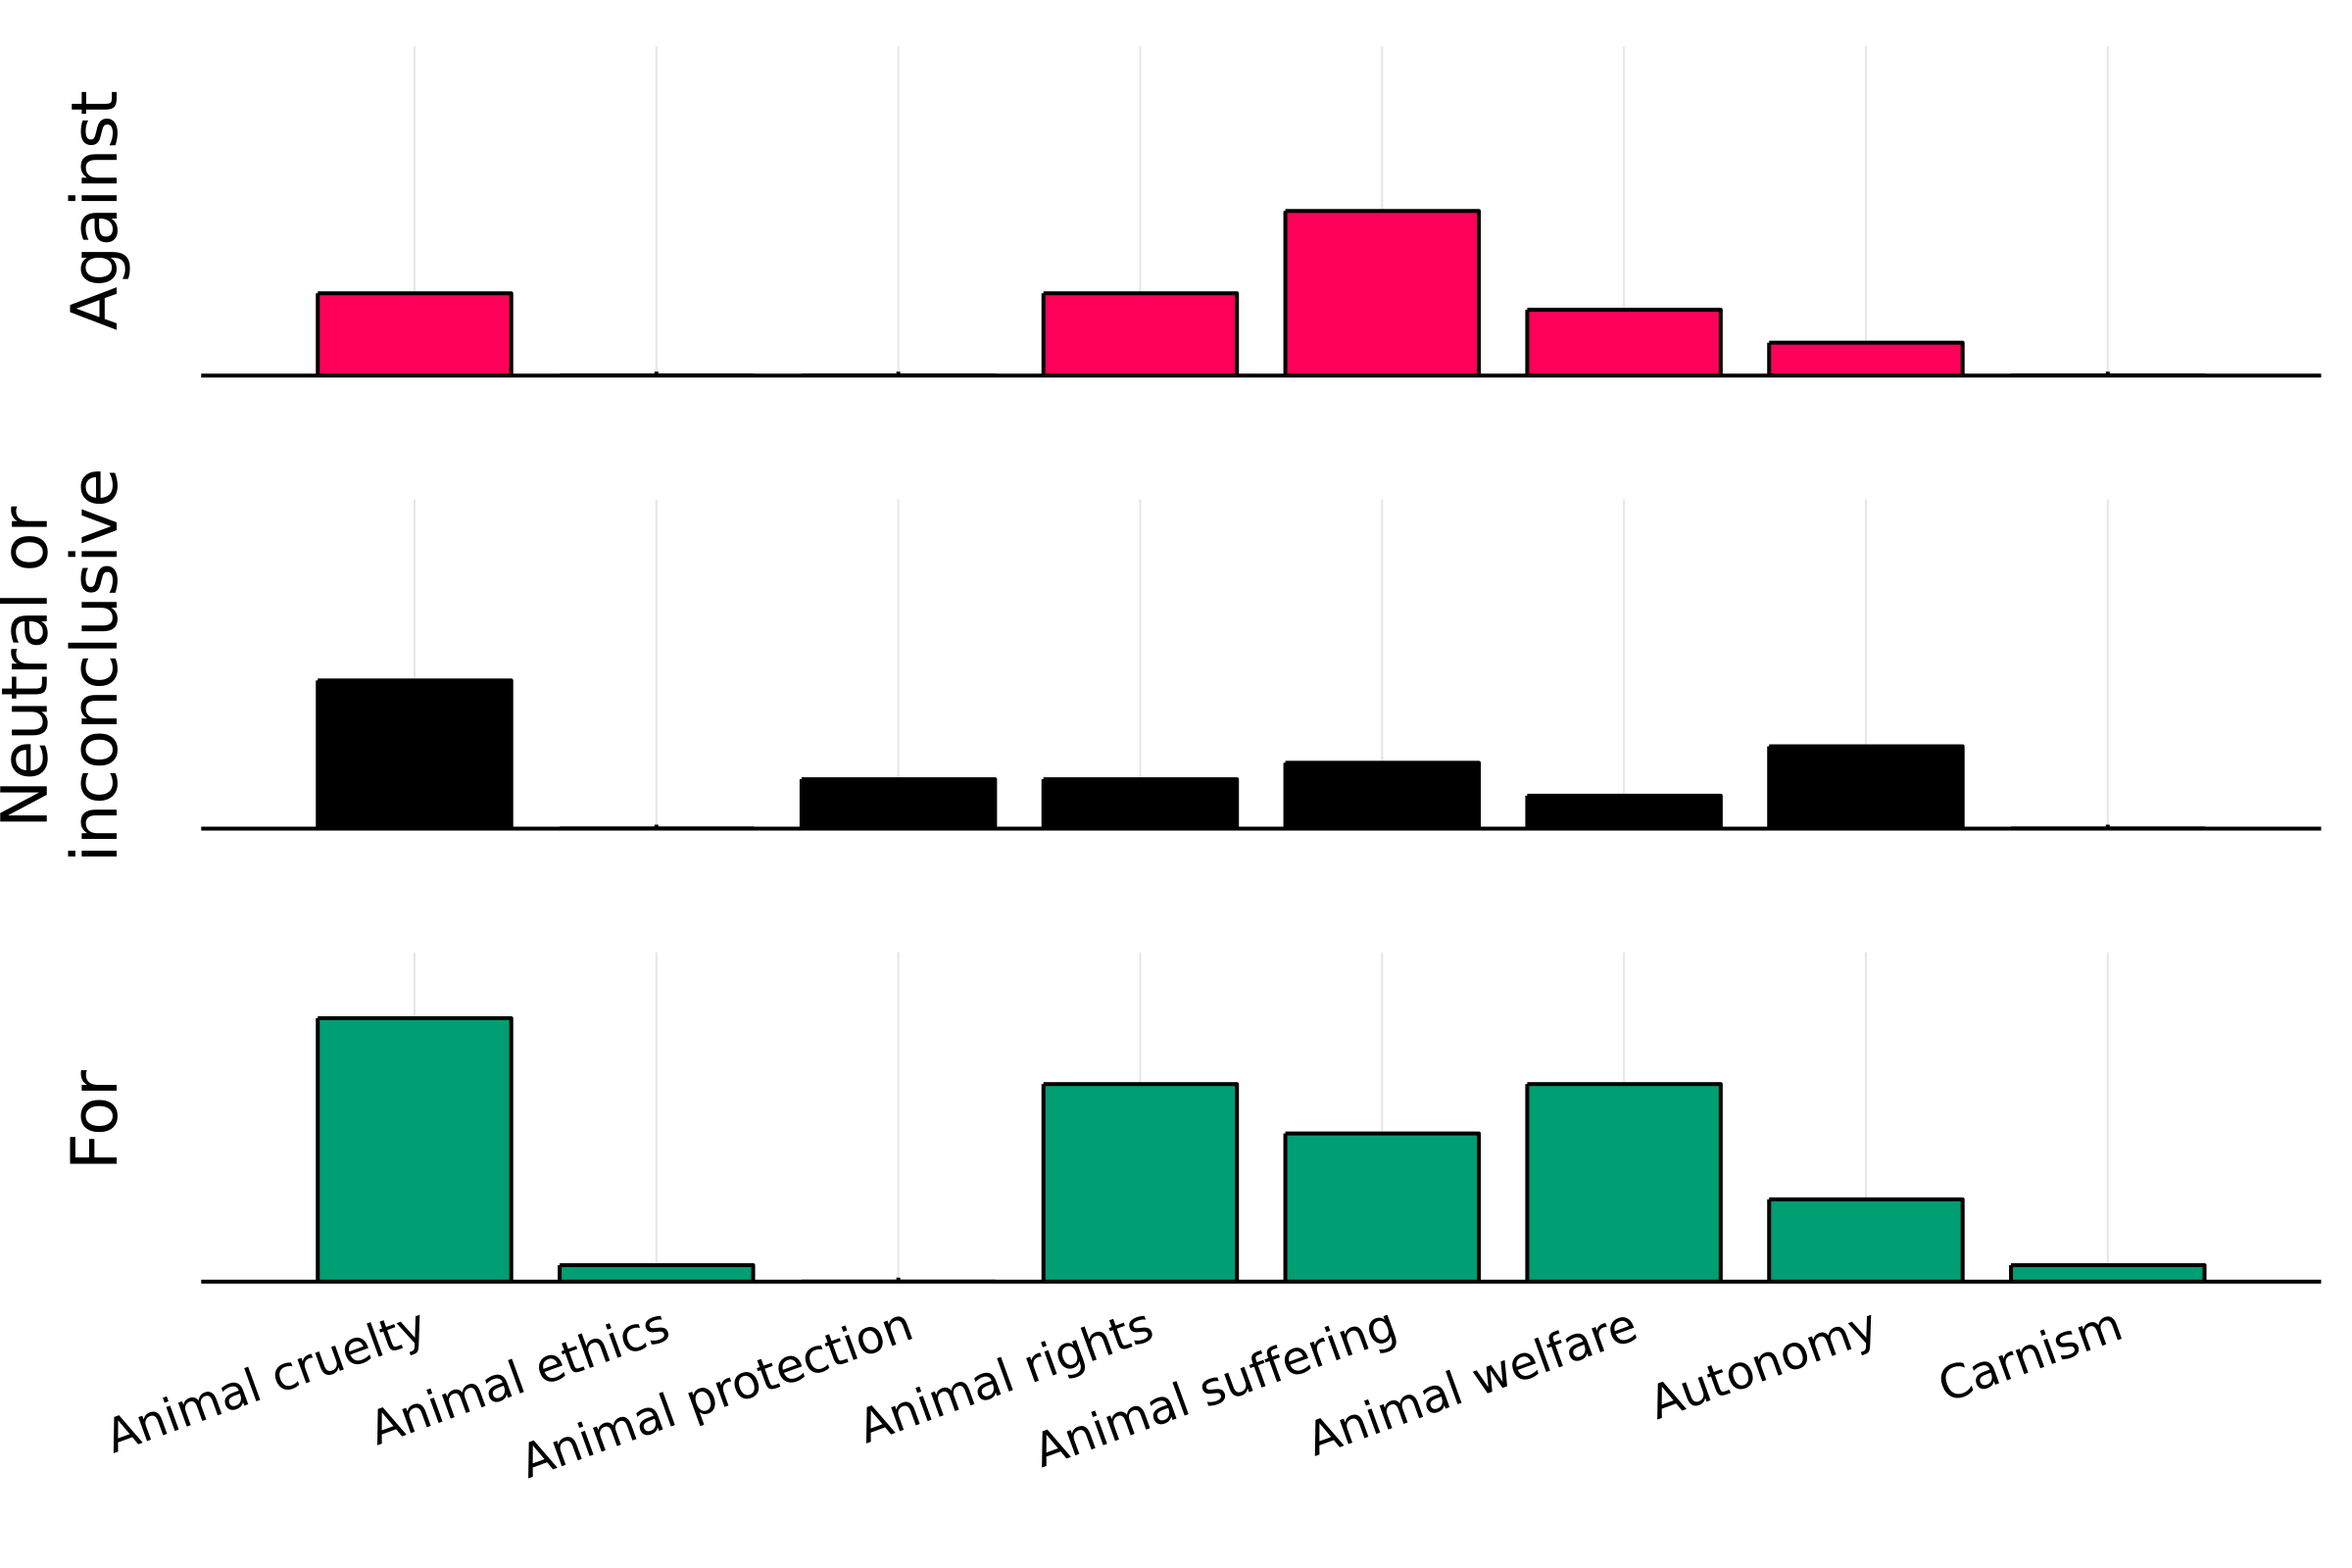
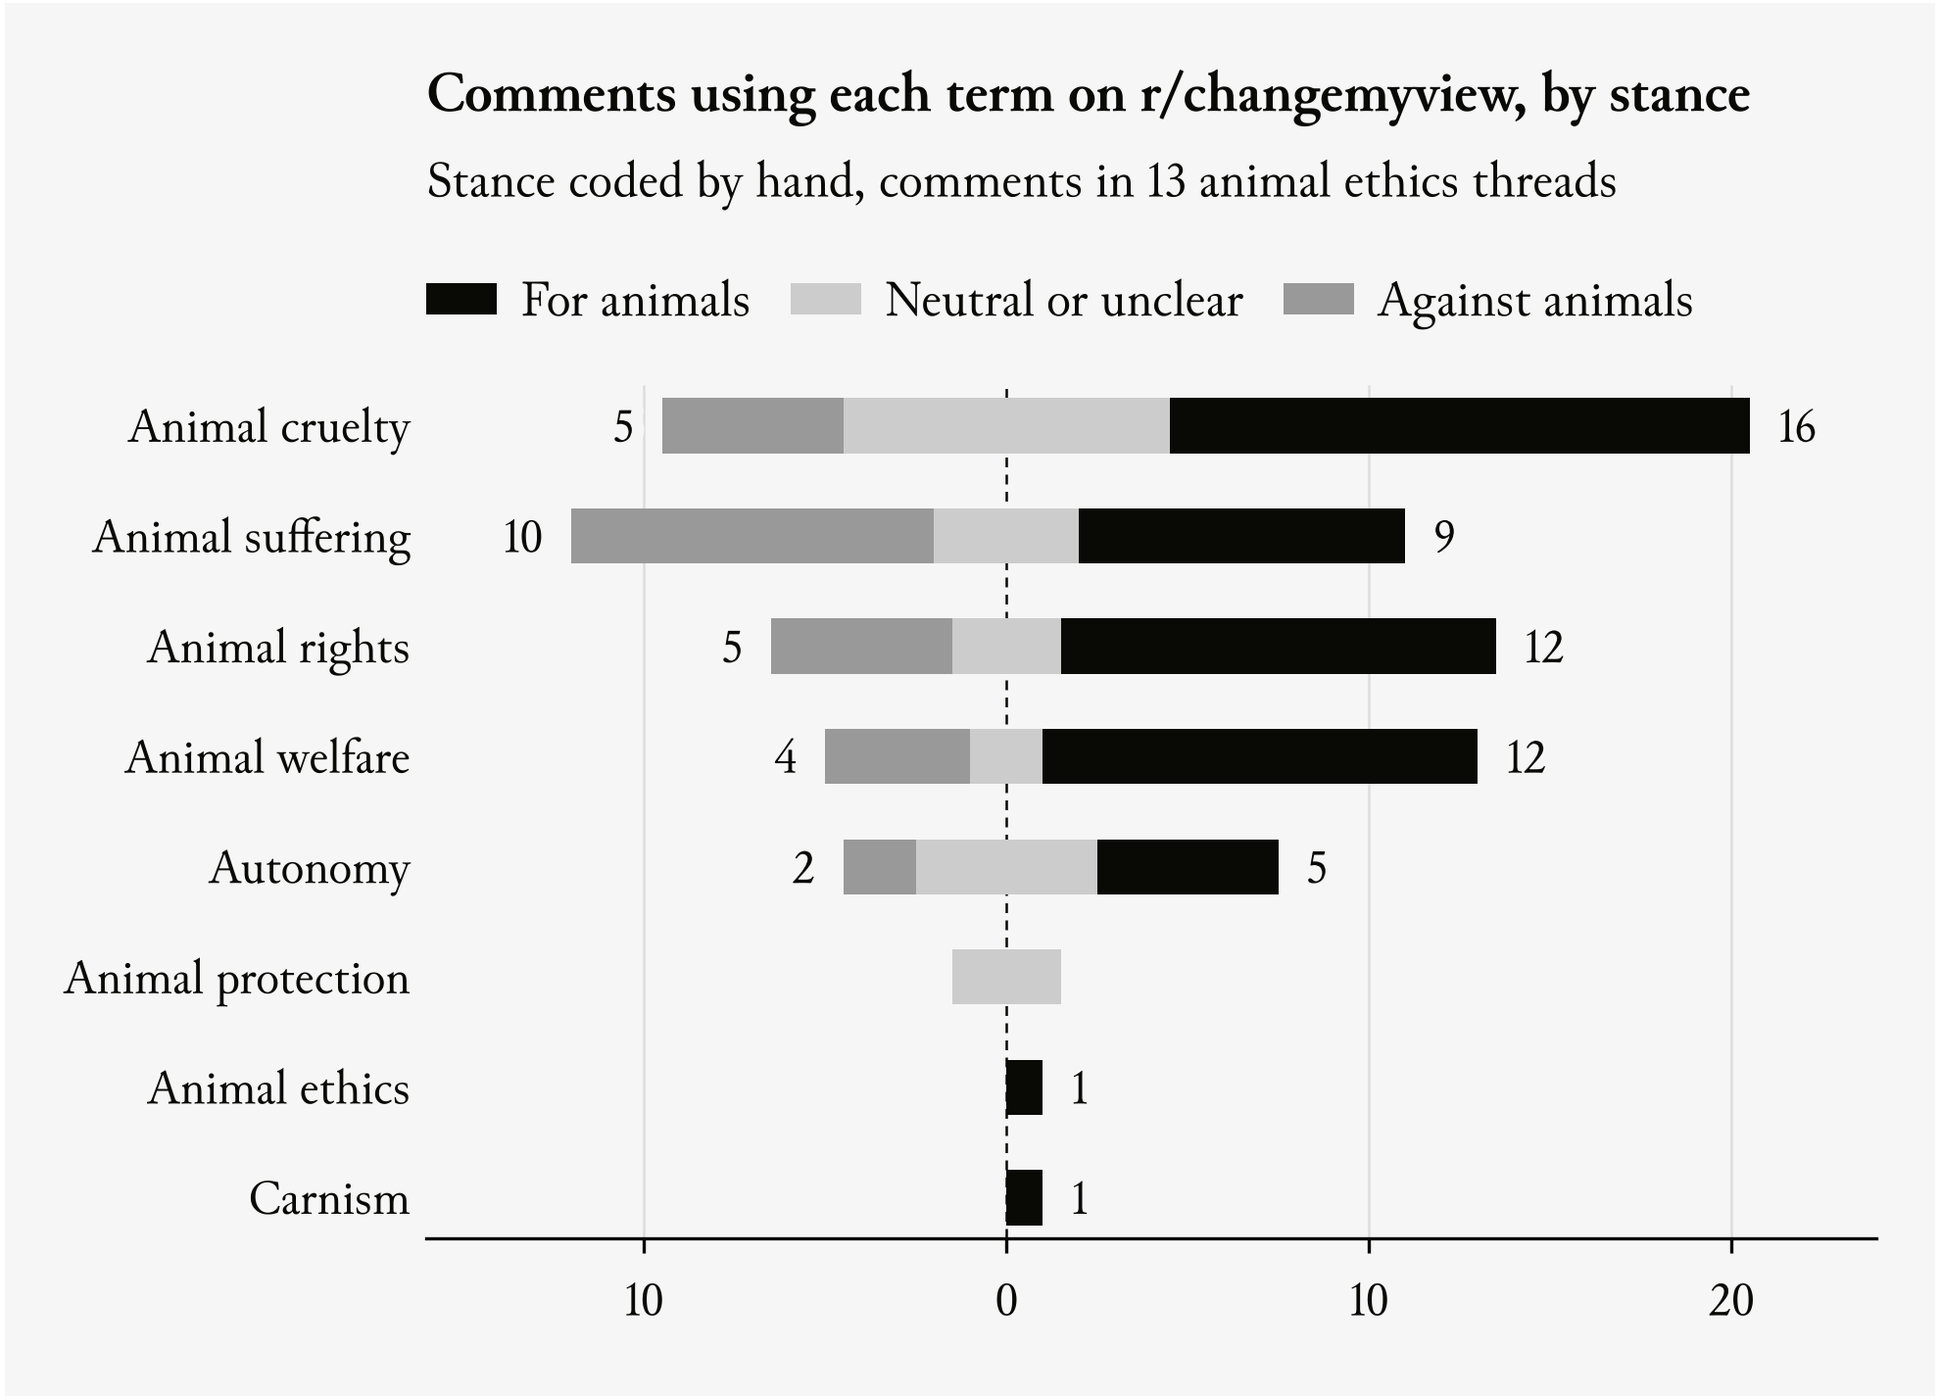
Update more plots

diff --git a/posts/not-a-meat-eater-faq.md b/posts/not-a-meat-eater-faq.md
@@ -64,7 +64,7 @@ Obviously many will dispute some of those claims. The first claim is empirical, 
 
 But first, let me expand a little on the staggering scale of factory farming. Each year, over 100B animals are killed for meat and other animal products (Ritchie 2023), about as many as the number of humans who have ever lived on Earth.[^4] Humans eat lots of different animals, from cows and pigs to dogs and horses and fish and whales and insects, but let us focus on the most commonly eaten land animals: cows, pigs, and chickens. In the US, 33M cows, 130M pigs, and 9.4B chickens [are killed](https://www.ers.usda.gov/data-products/livestock-and-meat-domestic-data/livestock-and-meat-domestic-data) annually. That is 10%, 38%, and 2,800% of the US human population (340M), respectively. In the EU, according to my estimates, 24M cows, 240M pigs, and 6.4B chickens are slaughtered for meat annually.[^5] Most of these animals are raised in factory farms. In the US, 98% of pigs, 75% of cows, and well over 99% of chickens are factory-farmed (Ritchie 2023). The global number is likely lower, but still suggests a majority is factory-farmed; according to [one estimate](https://www.sentienceinstitute.org/global-animal-farming-estimates), about three quarters of global land livestock is factory-farmed. These numbers are fairly rough but the orders of magnitude are uncontroversial.
 
-![img]({{ '/img/0HOpb-vast-numbers-of-animals-are-killed-for-meat-each-year.png' | url }})
+![Land animals slaughtered for meat and human deaths per year]({{ '/img/0HOpb-vast-numbers-of-animals-are-killed-for-meat-each-year.png' | url }})
 
 **Ok, so why did you stop eating meat?**
 
@@ -90,9 +90,9 @@ Animals in factory farms are routinely mutilated. For example, when pigs are ove
 
 If you are skeptical that anyone would treat animals like that, consider this very simple explanation. The meat industry's primary purpose is to generate shareholder value. There's nothing wrong with that as far as it goes, but it means there's strong pressure on companies to generate meat as cost-effectively as possible -- to reduce costs and maximize throughput. However, there are very few laws regulating the conditions of animals on factory farms -- in most places, the meat industry is free to do almost as it wants, so long as it is considered a necessary part of meat production.[^7] (In the EU, things are a bit better than elsewhere, with directives setting some minimum welfare standards and some countries banning some of the most unseemly practices.[^8]) As a result, the default outcome is that animal welfare concerns take a backseat in favor of cost reduction and efficiency.
 
-This plot from Mekonnen et al. (2019) shows how animals now produce far more food than in the 20th century. A chicken born today contains twice as much meat as one born in 1960. A dairy cow born today produces three times as much milk as one born in 1960. In a way, this is good, because it means fewer animals need to go through factory farms to produce a given amount of meat. But it also involves placing more stress on the animal in a highly optimized system, as they are selectively bred and managed to grow extremely fast and to ever greater weights, causing lameness and other health issues (Clark, Potter, and Harding 2006).
+This plot from Mekonnen et al. (2019) shows how animals now produce far more food than in the 20th century. A chicken born today contains nearly twice as much meat as one born in 1960. A dairy cow born today produces three times as much milk as one born in 1960. In a way, this is good, because it means fewer animals need to go through factory farms to produce a given amount of meat. But it also involves placing more stress on the animal in a highly optimized system, as they are selectively bred and managed to grow extremely fast and to ever greater weights, causing lameness and other health issues (Clark, Potter, and Harding 2006).
 
-![img]({{ '/img/farmed_animal_productivity.jpg' | url }})
+![Output per animal and feed per unit of output, US livestock, 1960–2016]({{ '/img/farmed_animal_productivity.png' | url }})
 
 Adding to those problems, farmed animals are often handled roughly and not infrequently [subjected to outright abuse](https://www.youtube.com/watch?v=gYTkM1OHFQg). They're put in crowded, featureless environments depriving them of their natural behaviors. Their living spaces are unsanitary and disease-ridden -- for example, >500M chickens have been killed ("depopulated") to contain various avian influenza outbreaks between 2005 and 2024 (Al Awaidy, Asghar, and Zaraket 2024). They get injured and their injuries are often left untreated. Females are forcefully impregnated with rods. Piglets are weaned from their mothers at two to four weeks instead of the natural three to four months and dairy calves are separated within hours (compared to the natural weaning period of ten months) (Faccin et al. 2020; Lewis 2016). When transported to slaughterhouses, they are packed into crowded trucks and denied food and water for extended periods; [according to one estimate](https://www.theguardian.com/environment/2022/jun/15/more-than-20-million-farm-animals-die-on-way-to-abattoir-in-us-every-year), "20 million chickens, 330,000 pigs and 166,000 cattle are dead on arrival, or soon after, at abattoirs in the US every year [...] 800,000 pigs are calculated to be unable to walk on arrival". And so on. Again, these are just the natural consequences of a system designed to maximize cost-effectiveness with minimal oversight. There would be nothing wrong with this if it were not the case that the products are living animals.
 
@@ -104,7 +104,7 @@ I think it is wrong to eat meat under any reasonable moral framework. That inclu
 
 Anyway, I mention the numbers because the numbers matter. Behind each number are many individual animals. When you see a number like "73,000,000,000 chickens slaughtered per year", it is only a number. But at the risk of stating the obvious, those are 73,000,000,000 individual chickens, each with its own mind and personality. Just like saving two human lives is better than saving one human life, if killing one animal is bad, then killing 73B animals is far worse. For a typical person in the West, a decade of vegetarianism could save something like 140-280 chickens, 4-5 pigs, 0.5-1 cows, and many other farmed (and wild caught) animals.[^10]
 
-![img]({{ '/img/YcOK1-the-typical-western-person-can-save-a-lot-of-animals-by-going-vegetarian.png' | url }})
+![Animals killed per person per year, by species]({{ '/img/YcOK1-the-typical-western-person-can-save-a-lot-of-animals-by-going-vegetarian.png' | url }})
 
 **How can you say eating meat is wrong according to common sense? Nearly everyone eats meat. Like, for many thousands of years the proportion of humans that have abstained from meat must have been well below 10%. Shouldn't we expect most people to be vegetarian if eating meat were truly so terrible?**
 
@@ -333,7 +333,7 @@ Why not both? I think for most people the best way to help get laws passed is to
 
 Yes, small animals are killed in plant agricultural production. There seems to be an enormous amount of uncertainty around how many are killed (Fischer and Lamey 2018). But I'm not sure it matters, because cows, pigs, and chickens eat plants, too. While cattle -- especially beef cattle -- get a large portion of food grazing, where crop harvesters are not a problem but pesticides are still used, every calorie of beef produced requires 50 plant calories eaten. Factory-farmed pig (1 cal out = 11 cal in) and chicken (1 cal out = 8 cal in) feed comes exclusively from plant agriculture, mostly cereals and soybean (Alexander et al. 2016; Sporchia, Kebreab, and Caro 2021; Govoni et al. 2021). Alexander et al. (2016) estimates that the Indian diet needs 25% of the land the US diet needs to produce the same amount of calories, mainly because it's more vegetarian (getting 9% of energy from animal products, versus 30% for the US). The best (read: least worst) [dietary impact estimate](https://animalvisuals.org/p/1mc) I could find has fruits, grains, and vegetables killing 1-2 orders of magnitude fewer animals per calorie than meat:
 
-![img]({{ '/img/tkw0t-plant-based-diets-likely-kill-fewer-animals-than-meat-based-diets.png' | url }})
+![Animals killed per million calories, by food]({{ '/img/tkw0t-plant-based-diets-likely-kill-fewer-animals-than-meat-based-diets.png' | url }})
 
 As that graph shows, vegetarian diets are not free from harm. In particular, it seems really valuable to exclude eggs, probably more so than excluding beef. I am not making the claim that vegetarianism is the best thing ever one can do to help animals. For example, as mentioned, donating to effective charities seems to be more impactful than adopting vegetarianism. I am only saying that adopting vegetarianism seems much better than doing nothing.
 

diff --git a/posts/dimensions-of-animal-advocacy-terminology.md b/posts/dimensions-of-animal-advocacy-terminology.md
@@ -18,9 +18,9 @@ From a pretty cursory look at the research, I gather that several attempts have 
 
 ## Status Quo
 
-Let us quickly survey the current landscape. Here are some common overarching terms used in animal advocacy, with frequency of use on the y-axis, courtesy of Google Ngram. The plot shows "animal welfare" overtaking "animal rights" in frequency in the late 1990s. The gap has again widened significantly starting around 2015, which is not long after effective altruism (EA) got off the ground as a movement (though I think it unlikely that effective altruism is behind the recent change; EA seems far too niche).
+Let us quickly survey the current landscape. Here are some common overarching terms used in animal advocacy, with frequency of use on the y-axis, courtesy of Google Ngram. The plot shows "animal welfare" overtaking "animal rights" in frequency in the late 1990s. The gap has again widened significantly since 2017, a few years after effective altruism (EA) got off the ground as a movement (though I think it unlikely that effective altruism is behind the recent change; EA seems far too niche).
 
-![Plot of Google Ngram frequencies of various animal ethics terms during the last 220 years.]({{ '/img/animal_ethics_ngrams.png' | url }})
+![Frequency of animal advocacy terms in English books, 1950–2019]({{ '/img/animal_ethics_ngrams.png' | url }})
 
 Note however that there are likely marked regional differences, [as hinted at in Google Trends](https://trends.google.com/trends/explore?q=animal%20welfare,animal%20rights,animal%20suffering,animal%20ethics,animal%20protection). In Protestant Europe and Canada, for example, it seems that people frequently search for "animal protection"; compare with common terms like *djurskydd* in Swedish or *Tierschutz* in German, as seen for example in [Djurskyddsföreningen](https://www.djurskydd.org/) *(The Animal Protection Association)* and the [Deutsche Tierschutzbund](https://www.tierschutzbund.de/) *(The German Animal Protection Association)*. The term "animal rights" seems prevalent in the Slavic world, though my wife, who is Russian, tells me that the most commonly used Russian term translates to "animal protection", so I am not sure about this. Either way, globally, and especially in the Anglo world, it seems that "animal welfare" is now the dominant term.
 
@@ -39,7 +39,7 @@ As for the relics, Williams identifies five themes in messaging by People for th
 
 For a very rough look at which terms are used in the wild, I scraped [r/changemyview](https://www.reddit.com/r/changemyview/), looking at the first 500 comments within the 20 all-time top voted animal ethics-related threads (of which 13 ended up containing at least one post that included at least one of the search terms). I then manually went through the comments to see if they seemed to argue against animals, for animals, or if they were neutral.
 
-![Plot of occurrence counts of various animal ethics terms in some posts to r/changemyview.]({{ '/img/animal_ethics_cmv_occurences.png' | url }})
+![Comments using each term on r/changemyview, by stance]({{ '/img/animal_ethics_cmv_occurences.png' | url }})
 
 This is of course a super rough proxy for what terminology people use online when discussing animal ethics, but the phrase that appeared in most comments in my sample, and used especially by people arguing for animals, was "animal cruelty" (30 comments), followed by the triad of "animal suffering" (23), "animal rights" (20), and "animal welfare" (18).
 

diff --git a/posts/follow-up-on-the-health-effects-of-veganism-mental-health.md b/posts/follow-up-on-the-health-effects-of-veganism-mental-health.md
@@ -45,7 +45,7 @@ So given these and other studies, it seems possible that veganism/vegetarianism 
 
 Those are some possibilities I thought of, but Hopwood (2022) has another explanation: it suggests the link is caused not by the diets' nutritional features or anything else on my list, but by cognitive dissonance in those who try to reduce the amount of meat they eat. To me it's prima facie plausible that there is an effect like this, though if so I have no idea how large it is. (I could also imagine the opposite effect, i.e. meat-reducers feeling better about themselves for trying to reduce their meat intake.) The study surveyed two samples of 759/766 meat-eating, 186/188 meat-reducing, and 58/54 vegan/vegetarian Americans and found that the second group scored highest on various depression (or depressivity or depressiveness; it seems psychologists are quite inventive) surveys (my plot, based on data from Hopwood (2022)):
 
-![img]({{ '/img/meat_eating_veg_depression.png' | url }})
+![Depression scores compared with meat-eaters, by diet]({{ '/img/meat_eating_veg_depression.png' | url }})
 
 Interestingly, Çınar et al. (2022) analyzes a sample of 9,319 Finnish twins and siblings of twins and finds that veganism/vegetarianism is 76% (!) heritable. Another study of 367,198 Brits identified a gene associated with vegetarianism (Fensom et al. 2020). I don't know if this suggests there are some (heritable) psychological traits that influence whether one becomes vegan/vegetarian or not, i.e. in accordance with the "unknown factor → depression and veganism/vegetarianism" hypothesis. Maybe? I don't actually know whether different heritable traits of this sort tend to be clustered in larger populations.
 
